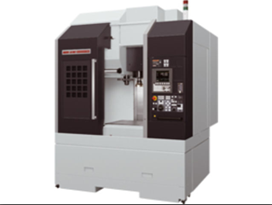
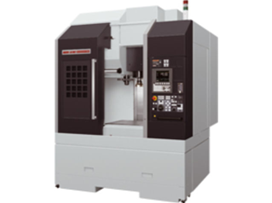
gepperk es autok korrekcio

diff --git a/gepeink.html b/gepeink.html
@@ -5,15 +5,6 @@
   <meta name="viewport" content="width=device-width, initial-scale=1.0">
   <title>Gépeink – SikoProduct KFT.</title>
   <link rel="stylesheet" href="css/style.css">
-  <style>
-    .machine-img img {
-      width: 100%;
-      height: 100%;
-      object-fit: contain;
-      padding: 12px;
-      background: var(--grey-100);
-    }
-  </style>
 </head>
 <body>
 
@@ -181,7 +172,7 @@
       <div class="machines-grid" data-stagger="0.1">
         <div class="machine-card anim anim-fade">
           <div class="machine-img">
-            <img src="images/Tesa Micro Hite 3D koordináta-mérőgép.png" alt="Tesa Micro Hite 3D koordináta-mérőgép">
+            <img src="images/Tesa_Micro_Hite_3D_koordináta-mérőgép-removebg-preview.png" alt="Tesa Micro Hite 3D koordináta-mérőgép" style="max-width:80%; max-height:80%;">
           </div>
           <div class="machine-info">
             <h3>Tesa Micro Hite 3D</h3>
@@ -194,7 +185,7 @@
         </div>
         <div class="machine-card anim anim-fade">
           <div class="machine-img">
-            <img src="images/Mitutoyo LH600-E 2D magasságmérő gép.png" alt="Mitutoyo LH600-E 2D magasságmérő">
+            <img src="images/Mitutoyo_LH600-E_2D_magasságmérő_gép-removebg-preview.png" alt="Mitutoyo LH600-E 2D magasságmérő">
           </div>
           <div class="machine-info">
             <h3>Mitutoyo LH600-E</h3>
@@ -218,7 +209,9 @@
 
       <div class="machines-grid" data-stagger="0.1">
         <div class="machine-card anim anim-fade">
-          <div class="machine-img" style="background:linear-gradient(135deg,#1a3a6b,#2d3142); color:#fff; font-size:2rem;">⚙</div>
+          <div class="machine-img">
+            <img src="images/Jakobsen_SJ_824_síkköszörű-removebg-preview.png" alt="Jakobsen SJ 824 síkköszörű">
+          </div>
           <div class="machine-info">
             <h3>Jakobsen SJ 824 síkköszörű</h3>
             <p>Síkköszörű precíziós felületi finommegmunkáláshoz – mágneses asztalrögzítéssel.</p>
@@ -256,7 +249,19 @@
 
       <div class="machines-grid" data-stagger="0.1">
         <div class="machine-card anim anim-fade">
-          <div class="machine-img" style="background:linear-gradient(135deg,#2d3142,var(--steel)); color:#fff; font-size:2rem;">🔧</div>
+          <div class="machine-img machine-img--icon">
+            <svg viewBox="0 0 80 80" fill="none" xmlns="http://www.w3.org/2000/svg" width="90" height="90">
+              <rect x="8" y="34" width="64" height="12" rx="3" fill="#cbd5e1"/>
+              <rect x="8" y="34" width="64" height="5" rx="2" fill="#94a3b8"/>
+              <circle cx="20" cy="40" r="10" stroke="#475569" stroke-width="3" fill="#e2e8f0"/>
+              <circle cx="20" cy="40" r="4" fill="#475569"/>
+              <circle cx="60" cy="40" r="7" stroke="#475569" stroke-width="3" fill="#e2e8f0"/>
+              <rect x="32" y="20" width="6" height="20" rx="2" fill="#64748b"/>
+              <rect x="28" y="16" width="14" height="6" rx="2" fill="#475569"/>
+              <rect x="10" y="46" width="60" height="18" rx="3" fill="#e2e8f0" stroke="#cbd5e1" stroke-width="1.5"/>
+              <rect x="16" y="50" width="10" height="8" rx="1" fill="#94a3b8"/>
+            </svg>
+          </div>
           <div class="machine-info">
             <h3>Stankó IK/63 esztergagép</h3>
             <p>Hagyományos esztergagép nagyméretű, hosszú alkatrészekhez.</p>
@@ -267,7 +272,17 @@
           </div>
         </div>
         <div class="machine-card anim anim-fade">
-          <div class="machine-img" style="background:linear-gradient(135deg,#2d3142,var(--steel)); color:#fff; font-size:2rem;">🛠</div>
+          <div class="machine-img machine-img--icon">
+            <svg viewBox="0 0 80 80" fill="none" xmlns="http://www.w3.org/2000/svg" width="90" height="90">
+              <rect x="20" y="50" width="40" height="16" rx="3" fill="#e2e8f0" stroke="#cbd5e1" stroke-width="1.5"/>
+              <rect x="30" y="54" width="20" height="8" rx="1" fill="#94a3b8"/>
+              <rect x="36" y="20" width="8" height="32" rx="2" fill="#64748b"/>
+              <rect x="28" y="14" width="24" height="10" rx="3" fill="#475569"/>
+              <rect x="38" y="10" width="4" height="6" rx="1" fill="#94a3b8"/>
+              <rect x="14" y="48" width="52" height="5" rx="2" fill="#94a3b8"/>
+              <circle cx="40" cy="38" r="5" fill="#cbd5e1" stroke="#475569" stroke-width="2"/>
+            </svg>
+          </div>
           <div class="machine-info">
             <h3>Stankó 6T12-1 marógép</h3>
             <p>Hagyományos marógép – kiegészítő művelet a CNC mellett.</p>
@@ -290,7 +305,9 @@
 
       <div class="machines-grid" data-stagger="0.1">
         <div class="machine-card anim anim-fade">
-          <div class="machine-img" style="background:linear-gradient(135deg,var(--blue),var(--blue-light)); color:#fff; font-size:2rem;">🚐</div>
+          <div class="machine-img">
+            <img src="images/mercedes_evito-removebg-preview.png" alt="Mercedes eVito dobozos">
+          </div>
           <div class="machine-info">
             <h3>Mercedes eVito dobozos</h3>
             <p>Elektromos haszongépjármű – gyors, csendes és környezetbarát kiszállítás.</p>
@@ -301,7 +318,9 @@
           </div>
         </div>
         <div class="machine-card anim anim-fade">
-          <div class="machine-img" style="background:linear-gradient(135deg,var(--blue),var(--blue-light)); color:#fff; font-size:2rem;">🚚</div>
+          <div class="machine-img">
+            <img src="images/mercedes_sprinter-removebg-preview.png" alt="Mercedes Sprinter 316d">
+          </div>
           <div class="machine-info">
             <h3>Mercedes Sprinter 316d</h3>
             <p>Kisteherautó nagyobb tételek és hosszabb anyagok szállítására.</p>

diff --git a/rolunk.html b/rolunk.html
@@ -45,56 +45,53 @@
     </div>
   </section>
 
-  <!-- INTRO -->
+  <!-- ABOUT STRIP -->
   <section class="section">
     <div class="container">
       <div class="about-strip">
+        <div class="about-img anim anim-fade-left">
+          <div class="about-img-inner"></div>
+          <span class="about-img-label">Nagytarcsai üzem</span>
+        </div>
         <div class="text-block">
-          <h2>Stabil alapok, folyamatos fejlődés</h2>
-          <p>Cégünk 2000-ben indult egyedi alkatrészek gyártására specializálódva. Az évek során folyamatos fejlesztéseknek és tudatos építkezésnek köszönhetően egy komplex, modern gyártóvállalattá váltunk.</p>
-          <p>Ma már nemcsak gyártási kapacitással, hanem teljes körű megoldásokkal állunk partnereink rendelkezésére, beleértve az anyagbeszerzést és logisztikát is.</p>
-          <p>Számos meghatározó ipari partnerrel dolgoztunk együtt, így pontosan ismerjük a nagyvállalati elvárásokat és minőségi követelményeket. Minősített beszállítóként kiemelt figyelmet fordítunk a pontosságra, határidőkre és a megbízhatóságra.</p>
-          <p>2021-ben új szintre emeltük működésünket: korszerű telephelyen, modern gépparkkal és optimalizált gyártási környezetben dolgozunk Nagytarcsán.</p>
-        </div>
-        <div class="about-img-placeholder">🏭</div>
-      </div>
-    </div>
-  </section>
-
-  <!-- VALUES -->
-  <section class="section section-alt">
-    <div class="container">
-      <h2 class="section-title">Értékeink</h2>
-      <div class="divider"></div>
-      <p class="section-subtitle">Amit partnereink elvárhatnak tőlünk – minden projektben.</p>
-
-      <div class="values-grid" data-stagger="0.1">
-        <div class="value-card anim anim-rotate">
-          <div class="value-icon">🎯</div>
-          <h3>Precizitás</h3>
-          <p>Akár mikronos pontossággal dolgozunk – a legszigorúbb műszaki követelményeket is teljesítjük.</p>
-        </div>
-        <div class="value-card anim anim-rotate">
-          <div class="value-icon">🤝</div>
-          <h3>Megbízhatóság</h3>
-          <p>Minősített beszállítóként a határidők és minőségi elvárások betartása nálunk alap.</p>
-        </div>
-        <div class="value-card anim anim-rotate">
-          <div class="value-icon">💡</div>
-          <h3>Folyamatos fejlődés</h3>
-          <p>Modern gépparkba és optimalizált gyártási folyamatokba fektetünk – ezzel tartjuk a versenyképességet.</p>
-        </div>
-        <div class="value-card anim anim-rotate">
-          <div class="value-icon">⭐</div>
-          <h3>Komplex megoldás</h3>
-          <p>Az anyagbeszerzéstől a kész alkatrész leszállításáig egy kézben tartjuk a folyamatot.</p>
+          <span class="section-label anim anim-fade-right">Miért mi?</span>
+          <h2 class="anim anim-fade-right" style="--d:0.08s">Stabil alapok, folyamatos fejlődés</h2>
+          <p class="anim anim-fade-right" style="--d:0.16s">Cégünk 2000-ben indult egyedi alkatrészek gyártására specializálódva, ma már komplex, modern gyártóvállalatként állunk partnereink rendelkezésére. 2021 óta korszerű telephelyen, modern gépparkkal dolgozunk Nagytarcsán.</p>
+          <ul class="check-list" data-stagger="0.08">
+            <li class="anim anim-fade-right">
+              <span class="check-icon">
+                <svg viewBox="0 0 12 12"><polyline points="2,6 5,9 10,3"/></svg>
+              </span>
+              Több mint 20 év tapasztalat az ipari alkatrészgyártásban
+            </li>
+            <li class="anim anim-fade-right">
+              <span class="check-icon">
+                <svg viewBox="0 0 12 12"><polyline points="2,6 5,9 10,3"/></svg>
+              </span>
+              Minősített beszállító – pontosság, határidő, megbízhatóság
+            </li>
+            <li class="anim anim-fade-right">
+              <span class="check-icon">
+                <svg viewBox="0 0 12 12"><polyline points="2,6 5,9 10,3"/></svg>
+              </span>
+              Modern CNC géppark, kis és nagy szériához egyaránt
+            </li>
+            <li class="anim anim-fade-right">
+              <span class="check-icon">
+                <svg viewBox="0 0 12 12"><polyline points="2,6 5,9 10,3"/></svg>
+              </span>
+              Teljes körű megoldás: anyagbeszerzéstől a leszállításig
+            </li>
+          </ul>
+          <br>
+          <a href="kapcsolat.html" class="btn btn-dark anim anim-fade" style="--d:0.1s">Vegye fel velünk a kapcsolatot</a>
         </div>
       </div>
     </div>
   </section>
 
   <!-- TIMELINE -->
-  <section class="section">
+  <section class="section section-alt">
     <div class="container">
       <h2 class="section-title">Mérföldköveink</h2>
       <div class="divider"></div>

diff --git a/index.html b/index.html
@@ -125,51 +125,6 @@
     </div>
   </section>
 
-  <!-- ABOUT STRIP -->
-  <section class="section">
-    <div class="container">
-      <div class="about-strip">
-        <div class="about-img anim anim-fade-left">
-          <div class="about-img-inner"></div>
-          <span class="about-img-label">Nagytarcsai üzem</span>
-        </div>
-        <div class="text-block">
-          <span class="section-label anim anim-fade-right">Miért mi?</span>
-          <h2 class="anim anim-fade-right" style="--d:0.08s">Stabil alapok, folyamatos fejlődés</h2>
-          <p class="anim anim-fade-right" style="--d:0.16s">Cégünk 2000-ben indult egyedi alkatrészek gyártására specializálódva, ma már komplex, modern gyártóvállalatként állunk partnereink rendelkezésére. 2021 óta korszerű telephelyen, modern gépparkkal dolgozunk Nagytarcsán.</p>
-          <ul class="check-list" data-stagger="0.08">
-            <li class="anim anim-fade-right">
-              <span class="check-icon">
-                <svg viewBox="0 0 12 12"><polyline points="2,6 5,9 10,3"/></svg>
-              </span>
-              Több mint 20 év tapasztalat az ipari alkatrészgyártásban
-            </li>
-            <li class="anim anim-fade-right">
-              <span class="check-icon">
-                <svg viewBox="0 0 12 12"><polyline points="2,6 5,9 10,3"/></svg>
-              </span>
-              Minősített beszállító – pontosság, határidő, megbízhatóság
-            </li>
-            <li class="anim anim-fade-right">
-              <span class="check-icon">
-                <svg viewBox="0 0 12 12"><polyline points="2,6 5,9 10,3"/></svg>
-              </span>
-              Modern CNC géppark, kis és nagy szériához egyaránt
-            </li>
-            <li class="anim anim-fade-right">
-              <span class="check-icon">
-                <svg viewBox="0 0 12 12"><polyline points="2,6 5,9 10,3"/></svg>
-              </span>
-              Teljes körű megoldás: anyagbeszerzéstől a leszállításig
-            </li>
-          </ul>
-          <br>
-          <a href="rolunk.html" class="btn btn-dark anim anim-fade" style="--d:0.1s">Ismerjen meg minket</a>
-        </div>
-      </div>
-    </div>
-  </section>
-
   <!-- MACHINES TEASER -->
   <section class="section section-dark">
     <div class="container">

diff --git a/css/style.css b/css/style.css
@@ -269,7 +269,7 @@ header {
 }
 
 .navbar-logo img {
-  height: 140px;
+  height: 100px;
   width: auto;
 }
 
@@ -856,31 +856,63 @@ footer {
 /* ---------- MACHINES GRID ---------- */
 .machines-grid {
   display: grid;
-  grid-template-columns: repeat(auto-fit, minmax(300px, 1fr));
-  gap: 24px;
+  grid-template-columns: repeat(auto-fit, minmax(440px, 1fr));
+  gap: 28px;
+  align-items: stretch;
 }
 
 .machine-card {
+  display: flex;
+  flex-direction: row;
   border-radius: var(--radius-md);
   overflow: hidden;
   border: 1px solid var(--grey-200);
   transition: var(--transition);
   background: var(--white);
+  box-shadow: 0 6px 20px rgba(26, 58, 107, 0.12);
 }
 
 .machine-card:hover {
-  box-shadow: var(--shadow-lg);
+  box-shadow: 0 10px 28px rgba(26, 58, 107, 0.22);
   transform: translateY(-3px);
 }
 
 .machine-img {
-  height: 180px;
-  background: var(--grey-100);
+  flex: 0 0 220px;
+  width: 220px;
+  min-height: 180px;
+  align-self: stretch;
+  background: var(--white);
   display: flex;
   align-items: center;
   justify-content: center;
   position: relative;
   overflow: hidden;
+}
+
+.machine-img img {
+  max-width: 100%;
+  max-height: 100%;
+  width: auto;
+  height: auto;
+  display: block;
+  padding: 18px;
+  box-sizing: border-box;
+}
+
+.machine-img--icon {
+  background: var(--grey-50);
+}
+
+@media (max-width: 600px) {
+  .machine-card {
+    flex-direction: column;
+  }
+  .machine-img {
+    flex: 0 0 auto;
+    width: 100%;
+    height: 220px;
+  }
 }
 
 .machine-img-inner {
